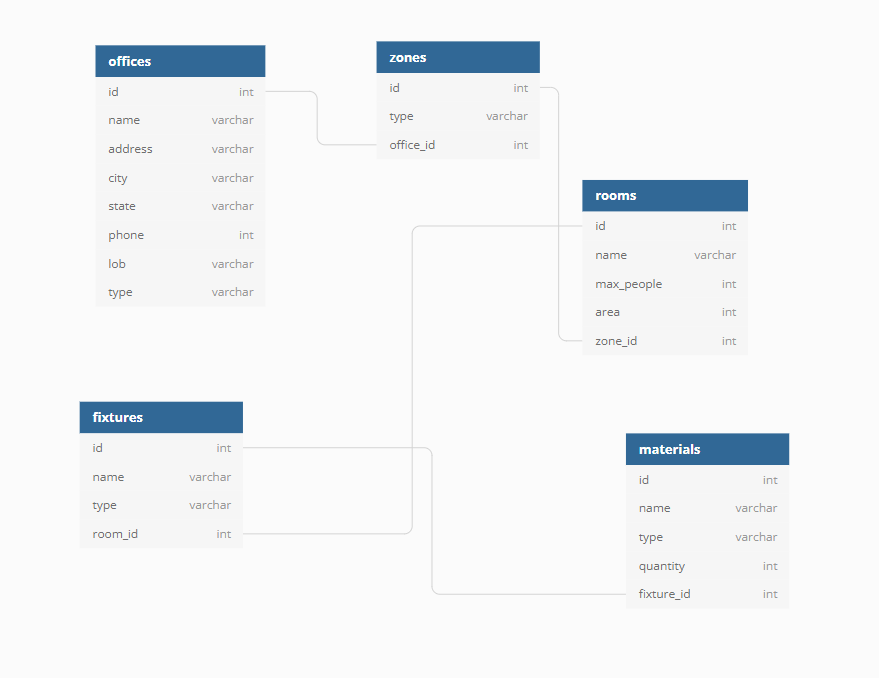
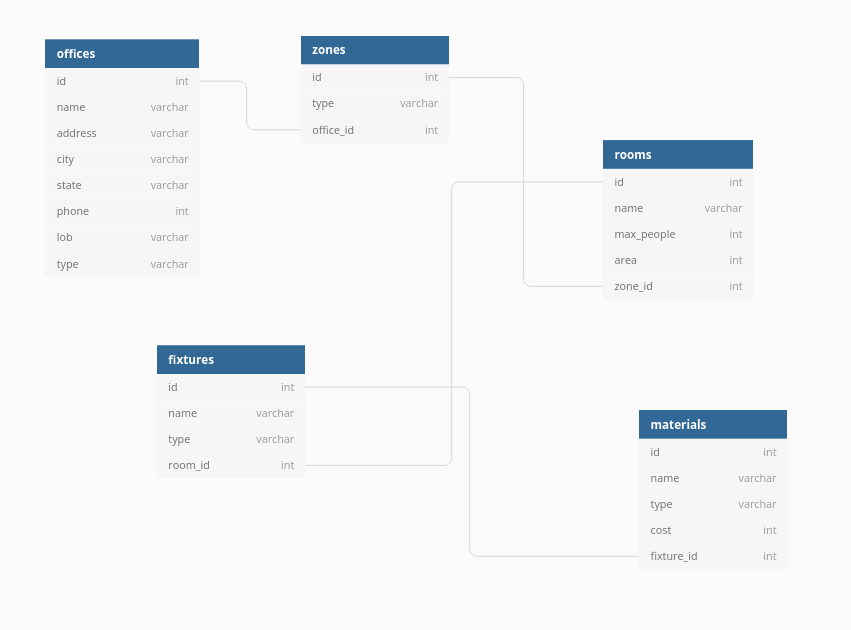
Challenge 2 + database correction

diff --git a/Task 1/Challenge 2/script.rb b/Task 1/Challenge 2/script.rb
@@ -1,0 +1,61 @@
+require 'pg'
+
+conn = PG.connect(:dbname => 'bank_processes', :password => 'usertest', :port => 5432)
+
+conn.exec(
+    'CREATE TABLE IF NOT EXISTS "offices" (
+        id SERIAL PRIMARY KEY,
+        name VARCHAR NOT NULL,
+        address VARCHAR NOT NULL,
+        city VARCHAR NOT NULL,
+        state VARCHAR NOT NULL,
+        phone BIGINT,
+        lob VARCHAR NOT NULL,
+        type VARCHAR NOT NULL,
+        UNIQUE(name, address, city, state, phone)
+    );'
+)
+
+conn.exec (
+    'CREATE TABLE IF NOT EXISTS "zones" (
+        id SERIAL PRIMARY KEY,
+        type VARCHAR NOT NULL,
+        office_id INT NOT NULL,
+        UNIQUE(type, office_id)
+    );
+    ALTER TABLE "zones" ADD FOREIGN KEY ("office_id") REFERENCES "offices" ("id");'
+)
+
+conn.exec(
+    'CREATE TABLE IF NOT EXISTS "rooms" (
+        id SERIAL PRIMARY KEY,
+        name VARCHAR NOT NULL,
+        max_people INT NOT NULL,
+        area INT NOT NULL,
+        zone_id INT NOT NULL,
+        UNIQUE(name, zone_id)
+    );
+    ALTER TABLE "rooms" ADD FOREIGN KEY ("zone_id") REFERENCES "zones" ("id");'
+)
+
+conn.exec(
+    'CREATE TABLE IF NOT EXISTS "fixtures" (
+        id SERIAL PRIMARY KEY,
+        name VARCHAR NOT NULL,
+        type VARCHAR NOT NULL,
+        room_id INT NOT NULL
+    );
+    ALTER TABLE "fixtures" ADD FOREIGN KEY ("room_id") REFERENCES "rooms" ("id");'
+)
+
+conn.exec(
+    'CREATE TABLE IF NOT EXISTS "materials" (
+        id SERIAL PRIMARY KEY,
+        name VARCHAR NOT NULL,
+        type VARCHAR NOT NULL,
+        cost FLOAT NOT NULL,
+        fixture_id INT NOT NULL,
+        UNIQUE(name, fixture_id)
+    );
+    ALTER TABLE "materials" ADD FOREIGN KEY ("fixture_id") REFERENCES "fixtures" ("id");'
+)
